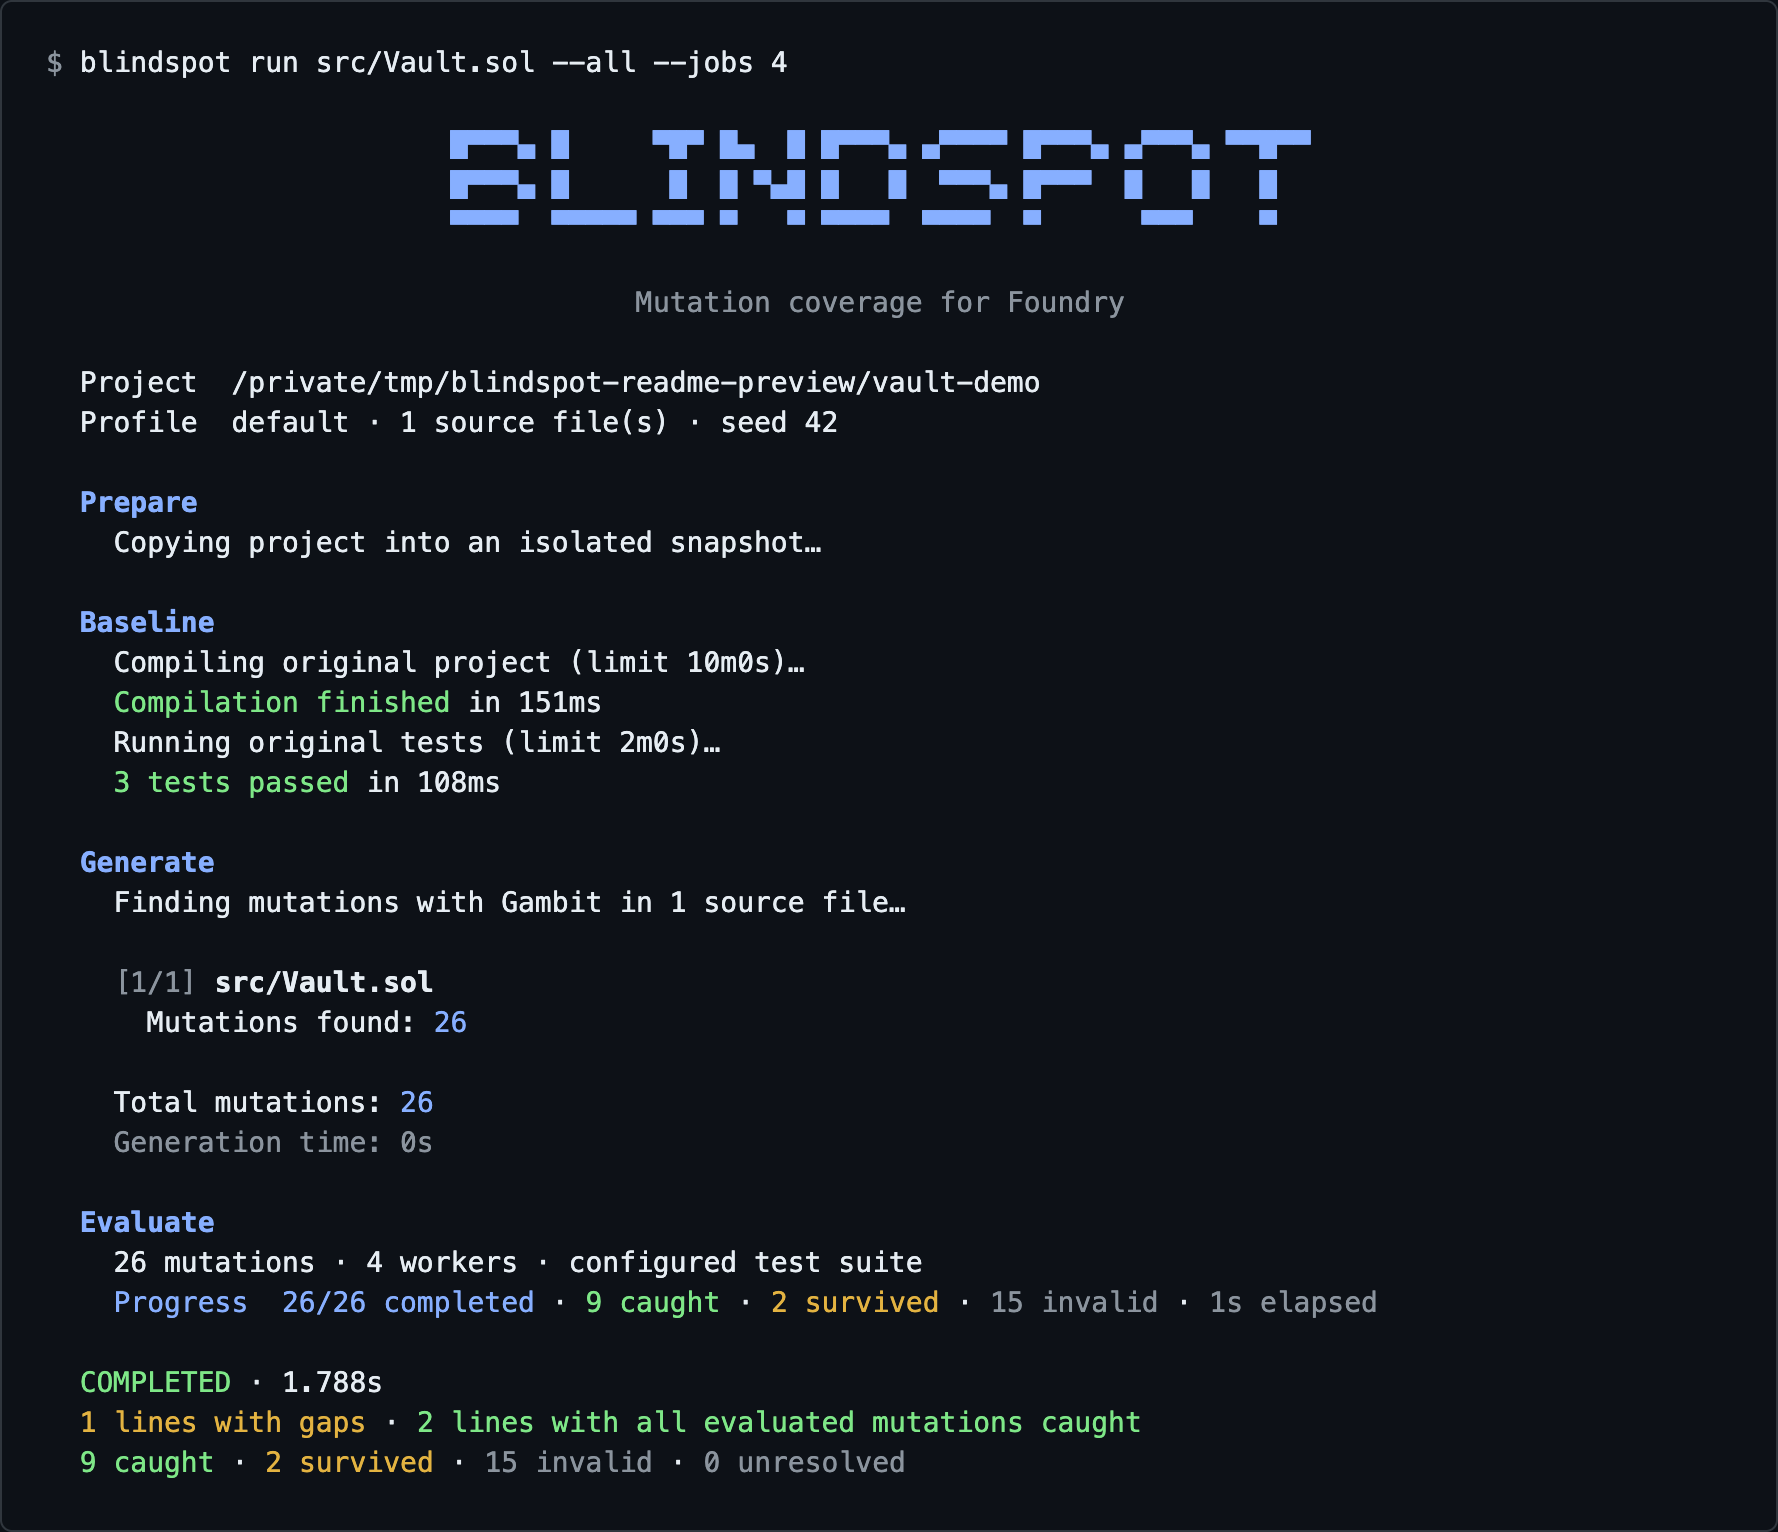
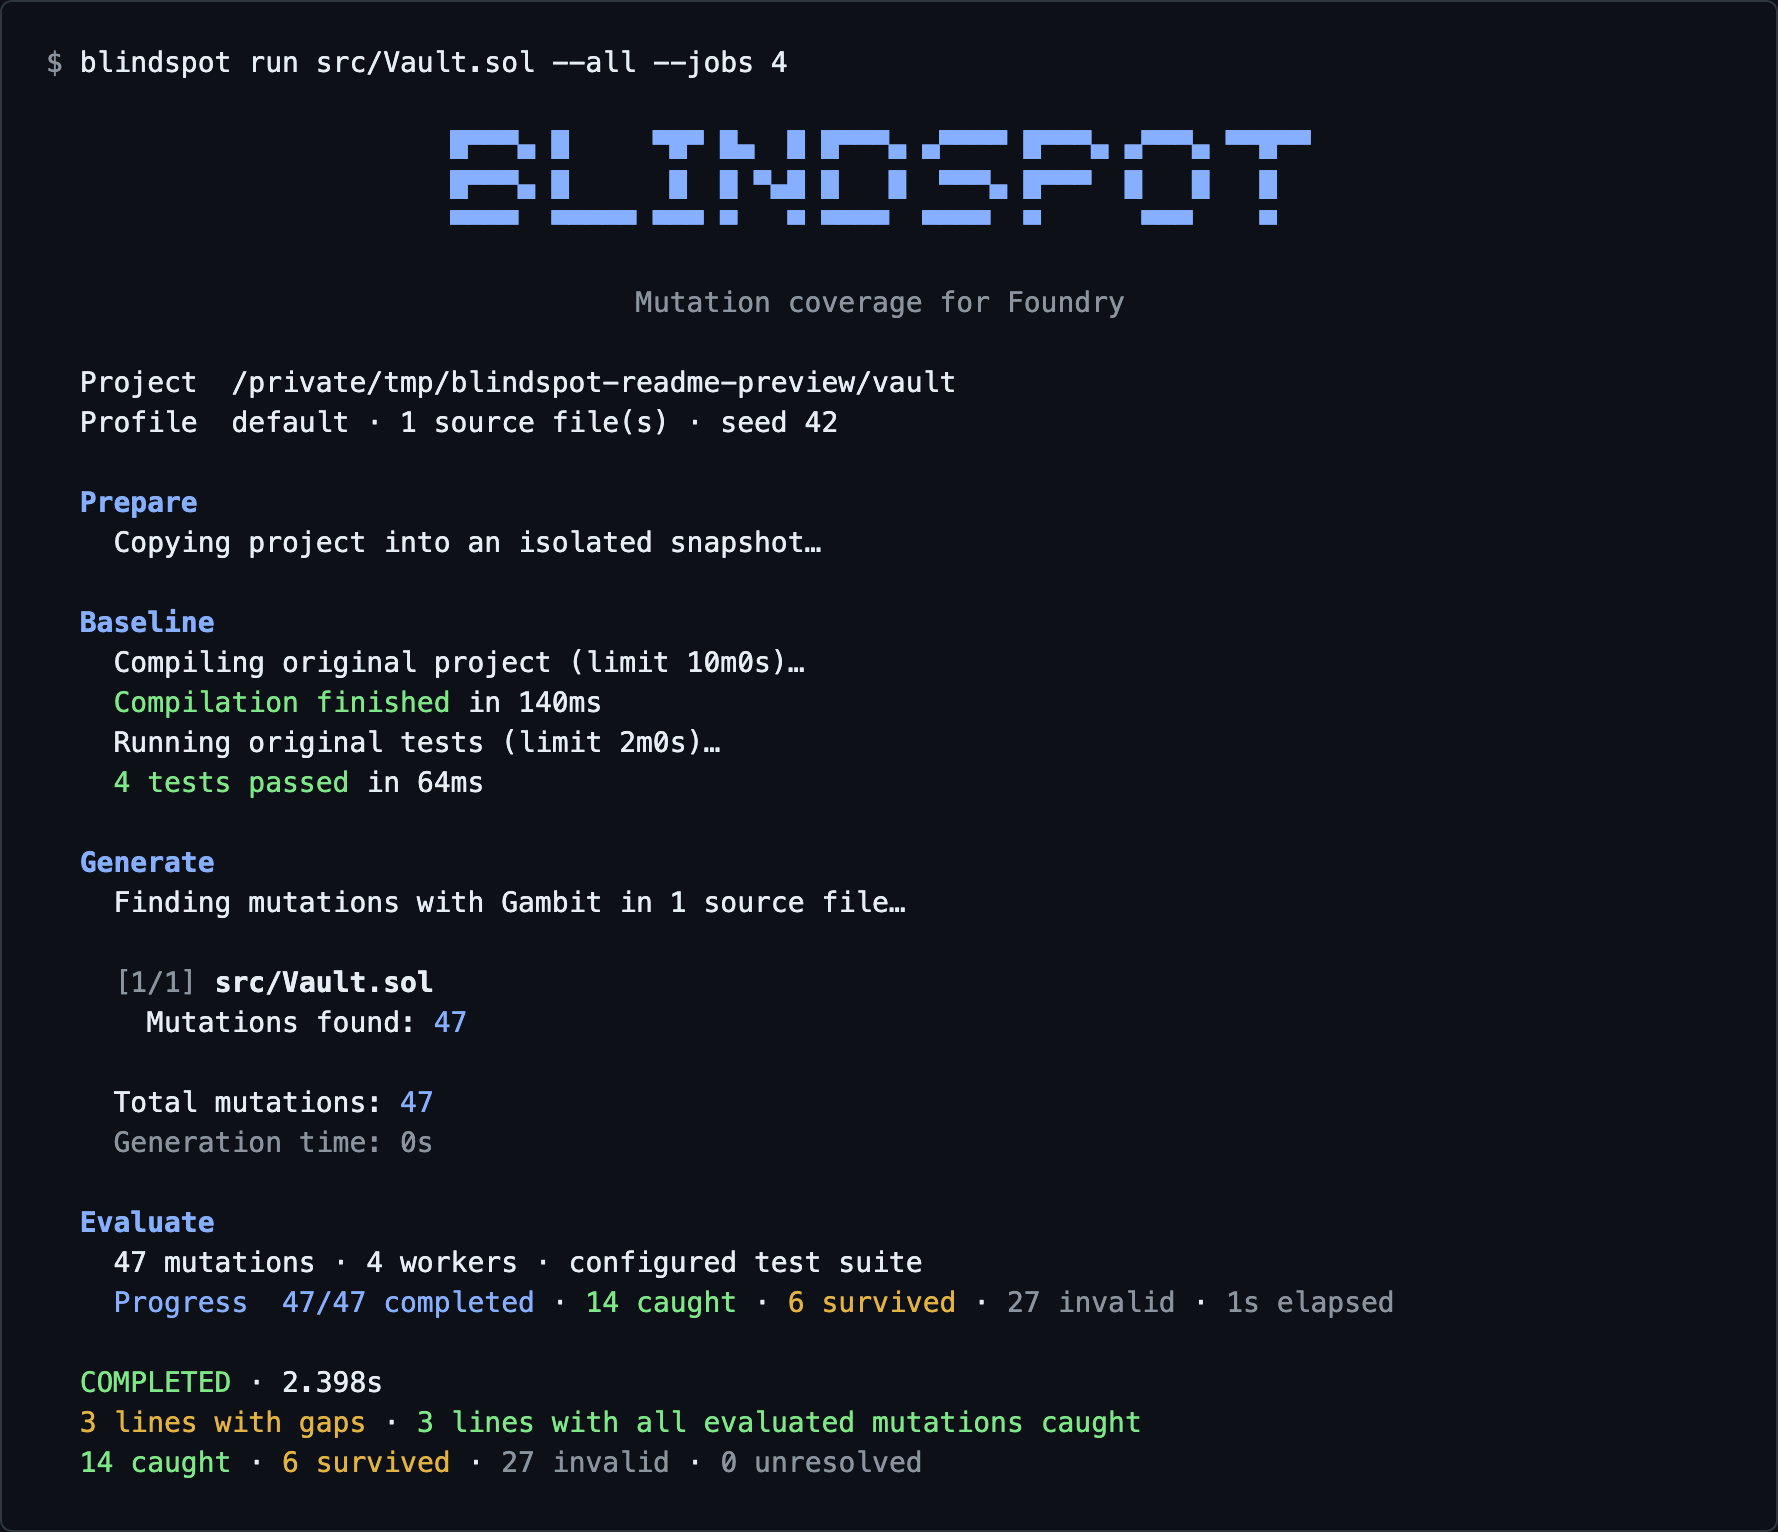
docs: focus preview on lines with test gaps

diff --git a/README.md b/README.md
@@ -6,16 +6,12 @@ Blindspot changes your Solidity code one mutation at a time in separate project 
 
 ## Preview
 
-A run against a small demo contract: all three tests pass, but removing the deposit-limit check goes undetected. The report highlights the affected line and shows the exact changes that survived.
-
-![Blindspot report highlighting an untested deposit-limit check and two surviving mutations](docs/images/report.png)
+![Blindspot report highlighting three lines with test coverage gaps](docs/images/report.png)
 
 <details>
-<summary>See the terminal output from the same run</summary>
+<summary>Terminal output</summary>
 
-The terminal shows build and test progress, mutation counts, and the final results.
-
-![Blindspot terminal output showing a completed run with 9 caught mutations and 2 survivors](docs/images/terminal.png)
+![Blindspot terminal output showing progress and a completed run with three lines with test gaps](docs/images/terminal.png)
 
 </details>
 
